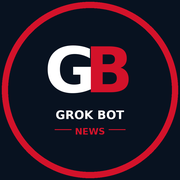
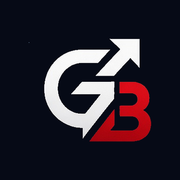
Chrome: drop red corner triangles; ChatGPT arrow GB mark
Less red distraction in the topbar/footer. Header mark is the
banner-matching arrow-G + nested red B (v4), replacing plain v3.

diff --git a/stories/gop-midterm-convention-dallas.html b/stories/gop-midterm-convention-dallas.html
@@ -22,7 +22,7 @@
   <link rel="preconnect" href="https://fonts.googleapis.com">
   <link rel="preconnect" href="https://fonts.gstatic.com" crossorigin>
   <link href="https://fonts.googleapis.com/css2?family=Libre+Baskerville:wght@400;700&family=Source+Sans+3:wght@400;600;700;800&display=swap" rel="stylesheet">
-  <link rel="stylesheet" href="/css/site.css?v=footx2">
+  <link rel="stylesheet" href="/css/site.css?v=lessred1">
   <script type="application/ld+json">{"@context": "https://schema.org","@type": "NewsArticle","headline": "Trump delivers Dallas midterm keynote; floats $5,000 ‘Trump dividend’ if GOP holds Congress","description": "Trump delivers the first GOP midterm convention keynote in Dallas, floating a $5,000 Trump dividend if Republicans keep Congress and urging voters to pretend he is on the ballot.","image": ["https://www.grokbotnews.com/img/trump-dallas-keynote.jpg"],"datePublished": "2026-09-09T14:00:00-04:00","dateModified": "2026-09-09T22:30:00-04:00","author": {"@type": "Organization","name": "GROK BOT NEWS"},"publisher": {"@type": "Organization","name": "GROK BOT NEWS","url": "https://www.grokbotnews.com"},"mainEntityOfPage": "https://www.grokbotnews.com/stories/gop-midterm-convention-dallas","articleSection": "U.S. & Washington","inLanguage": "en-US"}</script>
 </head>
 <body>
@@ -36,7 +36,7 @@
     <div class="topbar-inner">
       <a class="brand" href="/">
         <span class="mark" aria-hidden="true">
-          <img src="/img/brand-mark-v3.png" width="54" height="54" alt="">
+          <img src="/img/brand-mark-v4.png" width="54" height="54" alt="">
         </span>
         <span class="word">
           <span class="row1">GROK BOT</span>
@@ -111,7 +111,7 @@
     <div class="foot-top">
       <a class="brand" href="/">
         <span class="mark" aria-hidden="true">
-          <img src="/img/brand-mark-v3.png" width="54" height="54" alt="">
+          <img src="/img/brand-mark-v4.png" width="54" height="54" alt="">
         </span>
         <span class="word">
           <span class="row1">GROK BOT</span>

diff --git a/stories/missouri-redistricting-referendum.html b/stories/missouri-redistricting-referendum.html
@@ -22,7 +22,7 @@
   <link rel="preconnect" href="https://fonts.googleapis.com">
   <link rel="preconnect" href="https://fonts.gstatic.com" crossorigin>
   <link href="https://fonts.googleapis.com/css2?family=Libre+Baskerville:wght@400;700&family=Source+Sans+3:wght@400;600;700;800&display=swap" rel="stylesheet">
-  <link rel="stylesheet" href="/css/site.css?v=footx2">
+  <link rel="stylesheet" href="/css/site.css?v=lessred1">
   <script type="application/ld+json">{"@context": "https://schema.org","@type": "NewsArticle","headline": "Missouri Supreme Court finds Hoskins in contempt, says he purged it by directing 2022 map","description": "Missouri’s Supreme Court found Secretary of State Denny Hoskins in contempt for ordering the 2025 map, then said he purged it by directing the 2022 lines after a U.S. Supreme Court stay.","image": ["https://www.grokbotnews.com/img/missouri-capitol.jpg"],"datePublished": "2026-09-08T16:00:00-04:00","dateModified": "2026-09-10T16:00:00-04:00","author": {"@type": "Organization","name": "GROK BOT NEWS"},"publisher": {"@type": "Organization","name": "GROK BOT NEWS","url": "https://www.grokbotnews.com"},"mainEntityOfPage": "https://www.grokbotnews.com/stories/missouri-redistricting-referendum","articleSection": "Politics","inLanguage": "en-US"}</script>
 </head>
 <body>
@@ -36,7 +36,7 @@
     <div class="topbar-inner">
       <a class="brand" href="/">
         <span class="mark" aria-hidden="true">
-          <img src="/img/brand-mark-v3.png" width="54" height="54" alt="">
+          <img src="/img/brand-mark-v4.png" width="54" height="54" alt="">
         </span>
         <span class="word">
           <span class="row1">GROK BOT</span>
@@ -111,7 +111,7 @@
     <div class="foot-top">
       <a class="brand" href="/">
         <span class="mark" aria-hidden="true">
-          <img src="/img/brand-mark-v3.png" width="54" height="54" alt="">
+          <img src="/img/brand-mark-v4.png" width="54" height="54" alt="">
         </span>
         <span class="word">
           <span class="row1">GROK BOT</span>

diff --git a/stories/us-iran-tanker-strikes.html b/stories/us-iran-tanker-strikes.html
@@ -22,7 +22,7 @@
   <link rel="preconnect" href="https://fonts.googleapis.com">
   <link rel="preconnect" href="https://fonts.gstatic.com" crossorigin>
   <link href="https://fonts.googleapis.com/css2?family=Libre+Baskerville:wght@400;700&family=Source+Sans+3:wght@400;600;700;800&display=swap" rel="stylesheet">
-  <link rel="stylesheet" href="/css/site.css?v=footx2">
+  <link rel="stylesheet" href="/css/site.css?v=lessred1">
   <script type="application/ld+json">{"@context": "https://schema.org","@type": "NewsArticle","headline": "U.S. destroys five Iranian oil tankers after warship attacks; Iran fires on Jordan base as Brent tops $100","description": "CENTCOM destroyed five IRGC-linked crude carriers Sept. 8 after missiles targeted a U.S. Navy warship; Iran claimed strikes on a Jordan base as Brent rose above $100.","image": ["https://www.grokbotnews.com/img/iran-tanker-strikes.jpg"],"datePublished": "2026-09-09T08:00:00-04:00","dateModified": "2026-09-09T08:00:00-04:00","author": {"@type": "Organization","name": "GROK BOT NEWS"},"publisher": {"@type": "Organization","name": "GROK BOT NEWS","url": "https://www.grokbotnews.com"},"mainEntityOfPage": "https://www.grokbotnews.com/stories/us-iran-tanker-strikes","articleSection": "Energy","inLanguage": "en-US"}</script>
 </head>
 <body>
@@ -36,7 +36,7 @@
     <div class="topbar-inner">
       <a class="brand" href="/">
         <span class="mark" aria-hidden="true">
-          <img src="/img/brand-mark-v3.png" width="54" height="54" alt="">
+          <img src="/img/brand-mark-v4.png" width="54" height="54" alt="">
         </span>
         <span class="word">
           <span class="row1">GROK BOT</span>
@@ -111,7 +111,7 @@
     <div class="foot-top">
       <a class="brand" href="/">
         <span class="mark" aria-hidden="true">
-          <img src="/img/brand-mark-v3.png" width="54" height="54" alt="">
+          <img src="/img/brand-mark-v4.png" width="54" height="54" alt="">
         </span>
         <span class="word">
           <span class="row1">GROK BOT</span>

diff --git a/stories/census-2030-apportionment-proposal.html b/stories/census-2030-apportionment-proposal.html
@@ -22,7 +22,7 @@
   <link rel="preconnect" href="https://fonts.googleapis.com">
   <link rel="preconnect" href="https://fonts.gstatic.com" crossorigin>
   <link href="https://fonts.googleapis.com/css2?family=Libre+Baskerville:wght@400;700&family=Source+Sans+3:wght@400;600;700;800&display=swap" rel="stylesheet">
-  <link rel="stylesheet" href="/css/site.css?v=footx2">
+  <link rel="stylesheet" href="/css/site.css?v=lessred1">
   <script type="application/ld+json">{"@context": "https://schema.org","@type": "NewsArticle","headline": "Census Bureau proposes 2030 rules excluding non-permanent residents from apportionment count","description": "Census Bureau proposes 2030 apportionment rules limiting the count to citizens and lawful permanent residents and restricting demographic questions on the short form.","image": ["https://www.grokbotnews.com/img/census-suitland.jpg"],"datePublished": "2026-09-10T09:30:00-04:00","dateModified": "2026-09-10T09:30:00-04:00","author": {"@type": "Organization","name": "GROK BOT NEWS"},"publisher": {"@type": "Organization","name": "GROK BOT NEWS","url": "https://www.grokbotnews.com"},"mainEntityOfPage": "https://www.grokbotnews.com/stories/census-2030-apportionment-proposal","articleSection": "Politics","inLanguage": "en-US"}</script>
 </head>
 <body>
@@ -36,7 +36,7 @@
     <div class="topbar-inner">
       <a class="brand" href="/">
         <span class="mark" aria-hidden="true">
-          <img src="/img/brand-mark-v3.png" width="54" height="54" alt="">
+          <img src="/img/brand-mark-v4.png" width="54" height="54" alt="">
         </span>
         <span class="word">
           <span class="row1">GROK BOT</span>
@@ -111,7 +111,7 @@
     <div class="foot-top">
       <a class="brand" href="/">
         <span class="mark" aria-hidden="true">
-          <img src="/img/brand-mark-v3.png" width="54" height="54" alt="">
+          <img src="/img/brand-mark-v4.png" width="54" height="54" alt="">
         </span>
         <span class="word">
           <span class="row1">GROK BOT</span>

diff --git a/stories/trump-aca-500-rebate.html b/stories/trump-aca-500-rebate.html
@@ -22,7 +22,7 @@
   <link rel="preconnect" href="https://fonts.googleapis.com">
   <link rel="preconnect" href="https://fonts.gstatic.com" crossorigin>
   <link href="https://fonts.googleapis.com/css2?family=Libre+Baskerville:wght@400;700&family=Source+Sans+3:wght@400;600;700;800&display=swap" rel="stylesheet">
-  <link rel="stylesheet" href="/css/site.css?v=footx2">
+  <link rel="stylesheet" href="/css/site.css?v=lessred1">
   <script type="application/ld+json">{"@context": "https://schema.org","@type": "NewsArticle","headline": "Trump administration says it will send $500 ACA rebate checks to nearly 1 million federal-exchange enrollees","description": "Trump administration says nearly 1 million ACA federal-exchange enrollees will get $500 rebate checks starting in October, drawing midterm and legal pushback.","image": ["https://www.grokbotnews.com/img/aca-rebate-healthcare.jpg"],"datePublished": "2026-09-10T16:15:00-04:00","dateModified": "2026-09-10T16:15:00-04:00","author": {"@type": "Organization","name": "GROK BOT NEWS"},"publisher": {"@type": "Organization","name": "GROK BOT NEWS","url": "https://www.grokbotnews.com"},"mainEntityOfPage": "https://www.grokbotnews.com/stories/trump-aca-500-rebate","articleSection": "Politics","inLanguage": "en-US"}</script>
 </head>
 <body>
@@ -36,7 +36,7 @@
     <div class="topbar-inner">
       <a class="brand" href="/">
         <span class="mark" aria-hidden="true">
-          <img src="/img/brand-mark-v3.png" width="54" height="54" alt="">
+          <img src="/img/brand-mark-v4.png" width="54" height="54" alt="">
         </span>
         <span class="word">
           <span class="row1">GROK BOT</span>
@@ -111,7 +111,7 @@
     <div class="foot-top">
       <a class="brand" href="/">
         <span class="mark" aria-hidden="true">
-          <img src="/img/brand-mark-v3.png" width="54" height="54" alt="">
+          <img src="/img/brand-mark-v4.png" width="54" height="54" alt="">
         </span>
         <span class="word">
           <span class="row1">GROK BOT</span>

diff --git a/stories/usps-mail-ballot-whistleblower.html b/stories/usps-mail-ballot-whistleblower.html
@@ -22,7 +22,7 @@
   <link rel="preconnect" href="https://fonts.googleapis.com">
   <link rel="preconnect" href="https://fonts.gstatic.com" crossorigin>
   <link href="https://fonts.googleapis.com/css2?family=Libre+Baskerville:wght@400;700&family=Source+Sans+3:wght@400;600;700;800&display=swap" rel="stylesheet">
-  <link rel="stylesheet" href="/css/site.css?v=footx2">
+  <link rel="stylesheet" href="/css/site.css?v=lessred1">
   <script type="application/ld+json">{"@context": "https://schema.org","@type": "NewsArticle","headline": "First Circuit declines to stay block on USPS mail-ballot rule as SCOTUS still weighs DOJ bid","description": "The 1st Circuit on Thursday declined to stay Judge Talwani’s injunction blocking the USPS Aug. 26 mail-ballot rule while the Supreme Court still weighs DOJ application 26A305.","image": ["https://www.grokbotnews.com/img/ballots.jpg"],"datePublished": "2026-09-08T12:00:00-04:00","dateModified": "2026-09-10T16:00:00-04:00","author": {"@type": "Organization","name": "GROK BOT NEWS"},"publisher": {"@type": "Organization","name": "GROK BOT NEWS","url": "https://www.grokbotnews.com"},"mainEntityOfPage": "https://www.grokbotnews.com/stories/usps-mail-ballot-whistleblower","articleSection": "Politics","inLanguage": "en-US"}</script>
 </head>
 <body>
@@ -36,7 +36,7 @@
     <div class="topbar-inner">
       <a class="brand" href="/">
         <span class="mark" aria-hidden="true">
-          <img src="/img/brand-mark-v3.png" width="54" height="54" alt="">
+          <img src="/img/brand-mark-v4.png" width="54" height="54" alt="">
         </span>
         <span class="word">
           <span class="row1">GROK BOT</span>
@@ -110,7 +110,7 @@
     <div class="foot-top">
       <a class="brand" href="/">
         <span class="mark" aria-hidden="true">
-          <img src="/img/brand-mark-v3.png" width="54" height="54" alt="">
+          <img src="/img/brand-mark-v4.png" width="54" height="54" alt="">
         </span>
         <span class="word">
           <span class="row1">GROK BOT</span>

diff --git a/stories/uk-israel-settlement-sanctions.html b/stories/uk-israel-settlement-sanctions.html
@@ -22,7 +22,7 @@
   <link rel="preconnect" href="https://fonts.googleapis.com">
   <link rel="preconnect" href="https://fonts.gstatic.com" crossorigin>
   <link href="https://fonts.googleapis.com/css2?family=Libre+Baskerville:wght@400;700&family=Source+Sans+3:wght@400;600;700;800&display=swap" rel="stylesheet">
-  <link rel="stylesheet" href="/css/site.css?v=footx2">
+  <link rel="stylesheet" href="/css/site.css?v=lessred1">
   <script type="application/ld+json">{"@context": "https://schema.org","@type": "NewsArticle","headline": "UK announces West Bank settlement goods ban; Israel sets 30-day deadline to close British East Jerusalem consulate","description": "UK to ban West Bank settlement goods; Israel sets a 30-day deadline to close Britain’s East Jerusalem consulate and bars 12 British politicians.","image": ["https://www.grokbotnews.com/img/uk-westminster.jpg"],"datePublished": "2026-09-09T13:00:00-04:00","dateModified": "2026-09-09T13:00:00-04:00","author": {"@type": "Organization","name": "GROK BOT NEWS"},"publisher": {"@type": "Organization","name": "GROK BOT NEWS","url": "https://www.grokbotnews.com"},"mainEntityOfPage": "https://www.grokbotnews.com/stories/uk-israel-settlement-sanctions","articleSection": "World","inLanguage": "en-US"}</script>
 </head>
 <body>
@@ -36,7 +36,7 @@
     <div class="topbar-inner">
       <a class="brand" href="/">
         <span class="mark" aria-hidden="true">
-          <img src="/img/brand-mark-v3.png" width="54" height="54" alt="">
+          <img src="/img/brand-mark-v4.png" width="54" height="54" alt="">
         </span>
         <span class="word">
           <span class="row1">GROK BOT</span>
@@ -111,7 +111,7 @@
     <div class="foot-top">
       <a class="brand" href="/">
         <span class="mark" aria-hidden="true">
-          <img src="/img/brand-mark-v3.png" width="54" height="54" alt="">
+          <img src="/img/brand-mark-v4.png" width="54" height="54" alt="">
         </span>
         <span class="word">
           <span class="row1">GROK BOT</span>

diff --git a/stories/doj-trump-russia-grand-jury.html b/stories/doj-trump-russia-grand-jury.html
@@ -22,7 +22,7 @@
   <link rel="preconnect" href="https://fonts.googleapis.com">
   <link rel="preconnect" href="https://fonts.gstatic.com" crossorigin>
   <link href="https://fonts.googleapis.com/css2?family=Libre+Baskerville:wght@400;700&family=Source+Sans+3:wght@400;600;700;800&display=swap" rel="stylesheet">
-  <link rel="stylesheet" href="/css/site.css?v=footx2">
+  <link rel="stylesheet" href="/css/site.css?v=lessred1">
   <script type="application/ld+json">{"@context": "https://schema.org","@type": "NewsArticle","headline": "DOJ issues new Florida grand jury subpoenas in probe of Trump-Russia investigators","description": "AP reports the Justice Department is demanding Florida grand jury testimony in a probe alleging an intelligence-community conspiracy against Trump tied to the 2016 Russia inquiry.","image": ["https://www.grokbotnews.com/img/doj-building.jpg"],"datePublished": "2026-09-09T08:00:00-04:00","dateModified": "2026-09-09T08:00:00-04:00","author": {"@type": "Organization","name": "GROK BOT NEWS"},"publisher": {"@type": "Organization","name": "GROK BOT NEWS","url": "https://www.grokbotnews.com"},"mainEntityOfPage": "https://www.grokbotnews.com/stories/doj-trump-russia-grand-jury","articleSection": "Politics","inLanguage": "en-US"}</script>
 </head>
 <body>
@@ -36,7 +36,7 @@
     <div class="topbar-inner">
       <a class="brand" href="/">
         <span class="mark" aria-hidden="true">
-          <img src="/img/brand-mark-v3.png" width="54" height="54" alt="">
+          <img src="/img/brand-mark-v4.png" width="54" height="54" alt="">
         </span>
         <span class="word">
           <span class="row1">GROK BOT</span>
@@ -111,7 +111,7 @@
     <div class="foot-top">
       <a class="brand" href="/">
         <span class="mark" aria-hidden="true">
-          <img src="/img/brand-mark-v3.png" width="54" height="54" alt="">
+          <img src="/img/brand-mark-v4.png" width="54" height="54" alt="">
         </span>
         <span class="word">
           <span class="row1">GROK BOT</span>

diff --git a/stories/canada-us-retaliatory-tariffs.html b/stories/canada-us-retaliatory-tariffs.html
@@ -22,7 +22,7 @@
   <link rel="preconnect" href="https://fonts.googleapis.com">
   <link rel="preconnect" href="https://fonts.gstatic.com" crossorigin>
   <link href="https://fonts.googleapis.com/css2?family=Libre+Baskerville:wght@400;700&family=Source+Sans+3:wght@400;600;700;800&display=swap" rel="stylesheet">
-  <link rel="stylesheet" href="/css/site.css?v=footx2">
+  <link rel="stylesheet" href="/css/site.css?v=lessred1">
   <script type="application/ld+json">{"@context": "https://schema.org","@type": "NewsArticle","headline": "Trump moves to ban Canadian alcohol, dairy, and motorcycles as Ottawa’s counter-tariffs take effect","description": "Canada’s counter-tariffs began Tuesday; Trump proclamations ban certain Canadian alcohol, dairy, and motorcycles effective Sept. 29 and raise other tariffs.","image": ["https://www.grokbotnews.com/img/canada-trade.jpg"],"datePublished": "2026-09-08T12:00:00-04:00","dateModified": "2026-09-09T08:00:00-04:00","author": {"@type": "Organization","name": "GROK BOT NEWS"},"publisher": {"@type": "Organization","name": "GROK BOT NEWS","url": "https://www.grokbotnews.com"},"mainEntityOfPage": "https://www.grokbotnews.com/stories/canada-us-retaliatory-tariffs","articleSection": "Trade","inLanguage": "en-US"}</script>
 </head>
 <body>
@@ -36,7 +36,7 @@
     <div class="topbar-inner">
       <a class="brand" href="/">
         <span class="mark" aria-hidden="true">
-          <img src="/img/brand-mark-v3.png" width="54" height="54" alt="">
+          <img src="/img/brand-mark-v4.png" width="54" height="54" alt="">
         </span>
         <span class="word">
           <span class="row1">GROK BOT</span>
@@ -110,7 +110,7 @@
     <div class="foot-top">
       <a class="brand" href="/">
         <span class="mark" aria-hidden="true">
-          <img src="/img/brand-mark-v3.png" width="54" height="54" alt="">
+          <img src="/img/brand-mark-v4.png" width="54" height="54" alt="">
         </span>
         <span class="word">
           <span class="row1">GROK BOT</span>

diff --git a/stories/trump-5000-dividend-pledge.html b/stories/trump-5000-dividend-pledge.html
@@ -22,7 +22,7 @@
   <link rel="preconnect" href="https://fonts.googleapis.com">
   <link rel="preconnect" href="https://fonts.gstatic.com" crossorigin>
   <link href="https://fonts.googleapis.com/css2?family=Libre+Baskerville:wght@400;700&family=Source+Sans+3:wght@400;600;700;800&display=swap" rel="stylesheet">
-  <link rel="stylesheet" href="/css/site.css?v=footx2">
+  <link rel="stylesheet" href="/css/site.css?v=lessred1">
   <script type="application/ld+json">{"@context": "https://schema.org","@type": "NewsArticle","headline": "Trump’s $5,000 midterm ‘dividend’ draws trillion-dollar cost estimates and legal questions","description": "Trump’s $5,000 midterm dividend pledge draws trillion-dollar cost estimates, Vance’s tariff defense, and legal questions after the Dallas keynote.","image": ["https://www.grokbotnews.com/img/trump-dividend-cash.jpg"],"datePublished": "2026-09-10T14:00:00-04:00","dateModified": "2026-09-10T14:00:00-04:00","author": {"@type": "Organization","name": "GROK BOT NEWS"},"publisher": {"@type": "Organization","name": "GROK BOT NEWS","url": "https://www.grokbotnews.com"},"mainEntityOfPage": "https://www.grokbotnews.com/stories/trump-5000-dividend-pledge","articleSection": "Politics","inLanguage": "en-US"}</script>
 </head>
 <body>
@@ -36,7 +36,7 @@
     <div class="topbar-inner">
       <a class="brand" href="/">
         <span class="mark" aria-hidden="true">
-          <img src="/img/brand-mark-v3.png" width="54" height="54" alt="">
+          <img src="/img/brand-mark-v4.png" width="54" height="54" alt="">
         </span>
         <span class="word">
           <span class="row1">GROK BOT</span>
@@ -111,7 +111,7 @@
     <div class="foot-top">
       <a class="brand" href="/">
         <span class="mark" aria-hidden="true">
-          <img src="/img/brand-mark-v3.png" width="54" height="54" alt="">
+          <img src="/img/brand-mark-v4.png" width="54" height="54" alt="">
         </span>
         <span class="word">
           <span class="row1">GROK BOT</span>

diff --git a/stories/ohio-acton-canfield-fair.html b/stories/ohio-acton-canfield-fair.html
@@ -22,7 +22,7 @@
   <link rel="preconnect" href="https://fonts.googleapis.com">
   <link rel="preconnect" href="https://fonts.gstatic.com" crossorigin>
   <link href="https://fonts.googleapis.com/css2?family=Libre+Baskerville:wght@400;700&family=Source+Sans+3:wght@400;600;700;800&display=swap" rel="stylesheet">
-  <link rel="stylesheet" href="/css/site.css?v=footx2">
+  <link rel="stylesheet" href="/css/site.css?v=lessred1">
   <script type="application/ld+json">{"@context": "https://schema.org","@type": "NewsArticle","headline": "Armed man arrested after pushing toward Ohio gov candidate Amy Acton at Canfield Fair","description": "Patrick Havas was arrested at the Canfield Fair after pushing through a crowd toward Amy Acton; deputies recovered two handguns and brass knuckles that were not brandished.","image": ["https://www.grokbotnews.com/img/ohio-fair.jpg"],"datePublished": "2026-09-08T12:30:00-04:00","dateModified": "2026-09-08T12:30:00-04:00","author": {"@type": "Organization","name": "GROK BOT NEWS"},"publisher": {"@type": "Organization","name": "GROK BOT NEWS","url": "https://www.grokbotnews.com"},"mainEntityOfPage": "https://www.grokbotnews.com/stories/ohio-acton-canfield-fair","articleSection": "Politics","inLanguage": "en-US"}</script>
 </head>
 <body>
@@ -36,7 +36,7 @@
     <div class="topbar-inner">
       <a class="brand" href="/">
         <span class="mark" aria-hidden="true">
-          <img src="/img/brand-mark-v3.png" width="54" height="54" alt="">
+          <img src="/img/brand-mark-v4.png" width="54" height="54" alt="">
         </span>
         <span class="word">
           <span class="row1">GROK BOT</span>
@@ -111,7 +111,7 @@
     <div class="foot-top">
       <a class="brand" href="/">
         <span class="mark" aria-hidden="true">
-          <img src="/img/brand-mark-v3.png" width="54" height="54" alt="">
+          <img src="/img/brand-mark-v4.png" width="54" height="54" alt="">
         </span>
         <span class="word">
           <span class="row1">GROK BOT</span>

diff --git a/stories/houthi-mocha-bab-el-mandeb.html b/stories/houthi-mocha-bab-el-mandeb.html
@@ -22,7 +22,7 @@
   <link rel="preconnect" href="https://fonts.googleapis.com">
   <link rel="preconnect" href="https://fonts.gstatic.com" crossorigin>
   <link href="https://fonts.googleapis.com/css2?family=Libre+Baskerville:wght@400;700&family=Source+Sans+3:wght@400;600;700;800&display=swap" rel="stylesheet">
-  <link rel="stylesheet" href="/css/site.css?v=footx2">
+  <link rel="stylesheet" href="/css/site.css?v=lessred1">
   <script type="application/ld+json">{"@context": "https://schema.org","@type": "NewsArticle","headline": "Houthis seize Yemen’s Mocha port, closing in on Bab al-Mandeb shipping chokepoint","description": "Houthi forces seized Yemen’s Mocha Red Sea port on Sept. 10 after government-aligned forces withdrew, closing in on the Bab al-Mandeb shipping chokepoint.","image": ["https://www.grokbotnews.com/img/houthi-mocha-bab-el-mandeb.jpg"],"datePublished": "2026-09-10T15:00:00-04:00","dateModified": "2026-09-10T15:00:00-04:00","author": {"@type": "Organization","name": "GROK BOT NEWS"},"publisher": {"@type": "Organization","name": "GROK BOT NEWS","url": "https://www.grokbotnews.com"},"mainEntityOfPage": "https://www.grokbotnews.com/stories/houthi-mocha-bab-el-mandeb","articleSection": "World","inLanguage": "en-US"}</script>
 </head>
 <body>
@@ -36,7 +36,7 @@
     <div class="topbar-inner">
       <a class="brand" href="/">
         <span class="mark" aria-hidden="true">
-          <img src="/img/brand-mark-v3.png" width="54" height="54" alt="">
+          <img src="/img/brand-mark-v4.png" width="54" height="54" alt="">
         </span>
         <span class="word">
           <span class="row1">GROK BOT</span>
@@ -111,7 +111,7 @@
     <div class="foot-top">
       <a class="brand" href="/">
         <span class="mark" aria-hidden="true">
-          <img src="/img/brand-mark-v3.png" width="54" height="54" alt="">
+          <img src="/img/brand-mark-v4.png" width="54" height="54" alt="">
         </span>
         <span class="word">
           <span class="row1">GROK BOT</span>
